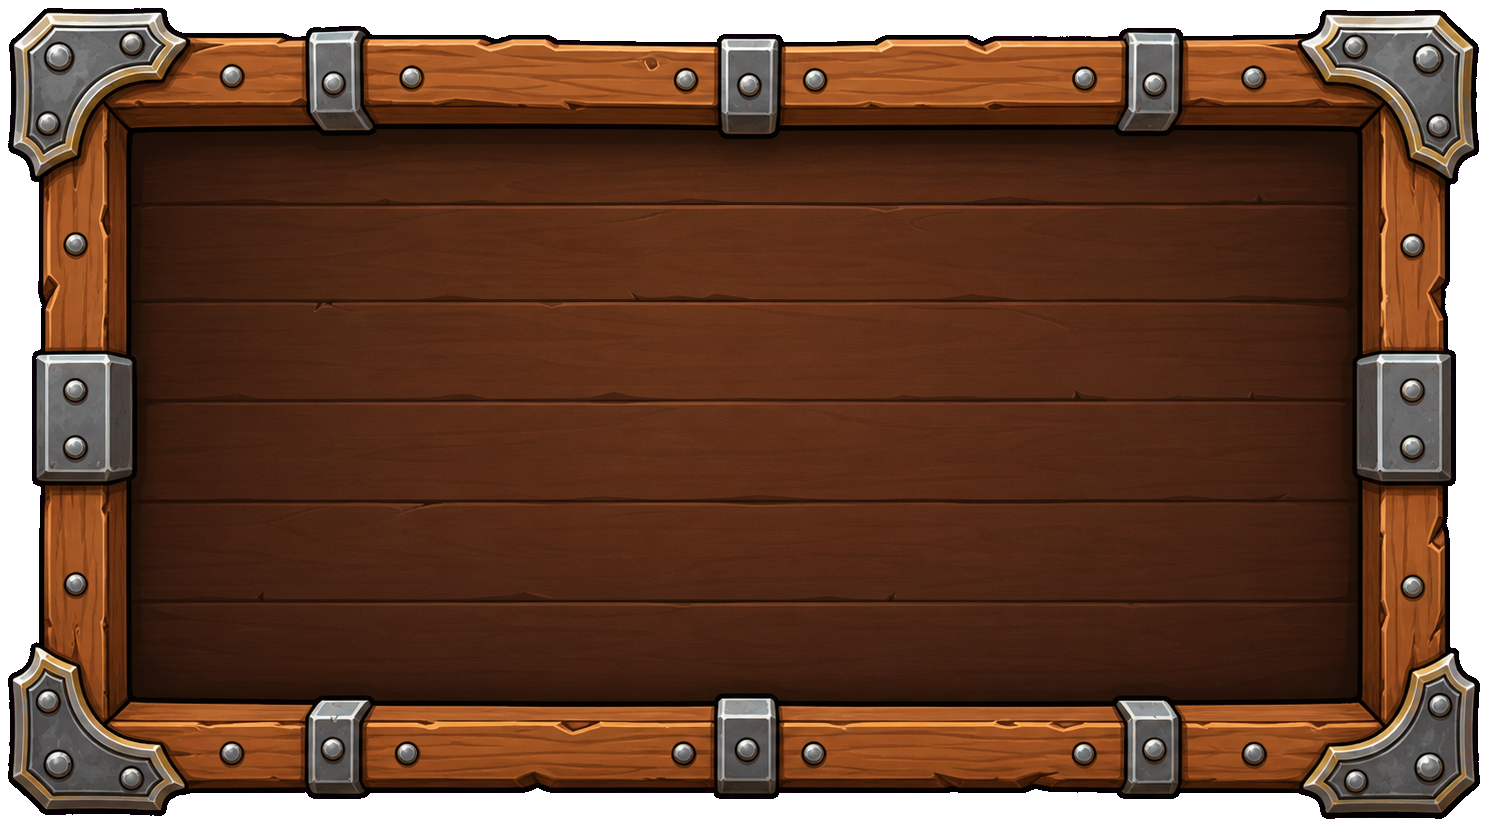
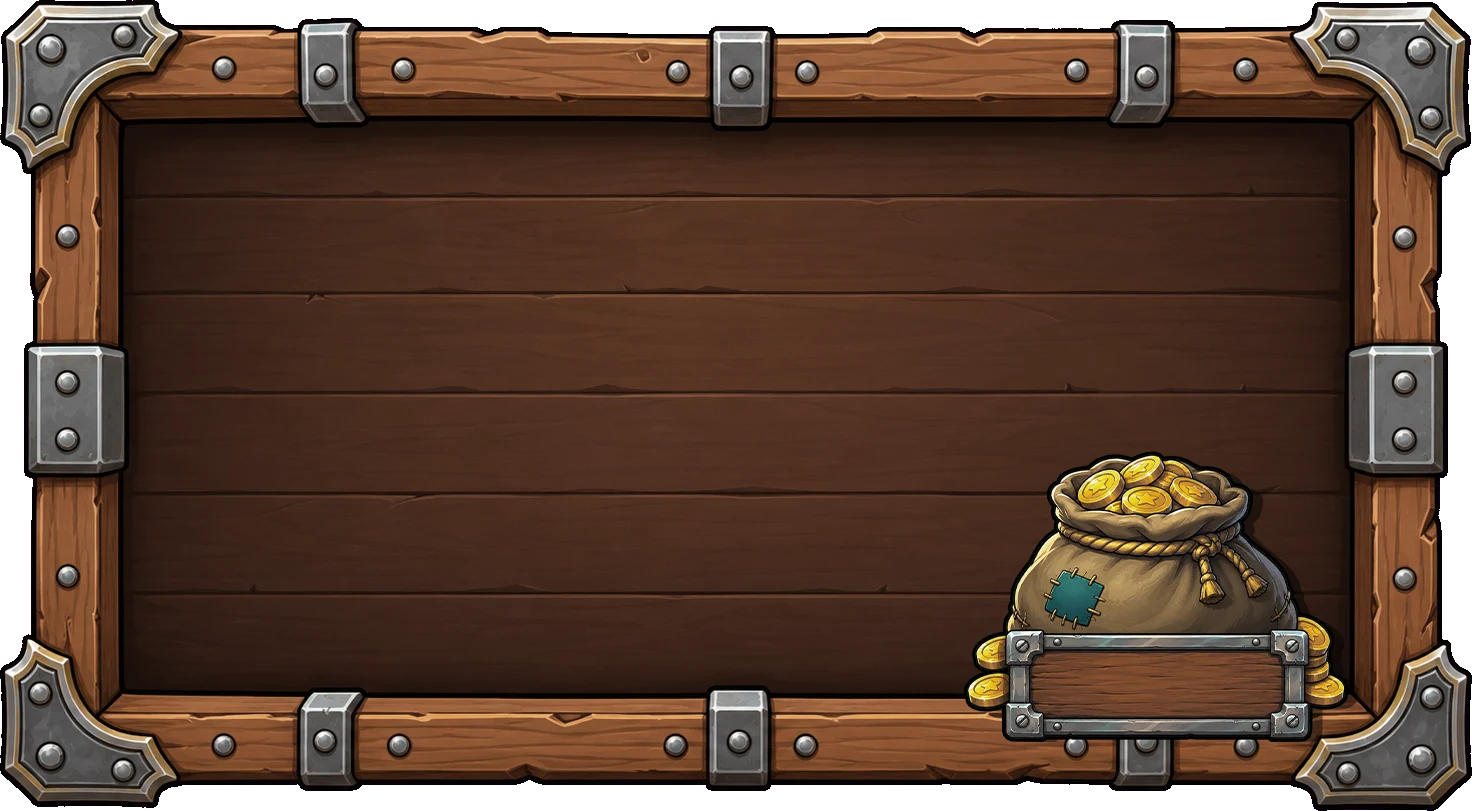
aaa

diff --git a/js/effects.js b/js/effects.js
@@ -901,27 +901,29 @@ safeLobbyEnhancement('ajustes visuais estaticos', () => {
             display: inline-flex !important;
             align-items: center !important;
             justify-content: center !important;
-            gap: 9px !important;
-            min-height: 42px !important;
-            padding: 5px 15px 5px 8px !important;
-            border: 2px solid rgba(255,215,0,0.72) !important;
-            border-radius: 999px !important;
-            background: linear-gradient(90deg, rgba(0,0,0,0.52), rgba(255,215,0,0.18), rgba(0,0,0,0.42)) !important;
-            box-shadow: inset 0 1px 0 rgba(255,255,255,0.16), 0 6px 14px rgba(0,0,0,0.36), 0 0 14px rgba(255,215,0,0.18) !important;
+            gap: 6px !important;
+            min-height: 0 !important;
+            padding: 0 !important;
+            border: 0 !important;
+            border-radius: 0 !important;
+            background: transparent !important;
+            box-shadow: none !important;
             color: #fff8c8 !important;
             font-family: 'Russo One', sans-serif !important;
-            font-size: clamp(18px, 2vw, 26px) !important;
+            font-size: clamp(17px, 1.65vw, 24px) !important;
             line-height: 1 !important;
             white-space: nowrap !important;
             text-shadow: 2px 2px 0 #1b0a03, 0 0 10px rgba(255,215,0,0.58) !important;
             position: absolute !important;
-            right: 34px !important;
-            top: 8px !important;
+            right: 9.4% !important;
+            top: 14.8% !important;
+            transform: translate(50%, -50%) !important;
+            z-index: 3 !important;
         }
 
         .lobby-shop-gold img {
-            width: 34px !important;
-            height: 34px !important;
+            width: clamp(22px, 1.9vw, 30px) !important;
+            height: clamp(22px, 1.9vw, 30px) !important;
             object-fit: contain !important;
             filter: drop-shadow(0 2px 0 rgba(0,0,0,0.58)) drop-shadow(0 0 7px rgba(255,215,0,0.62)) !important;
         }
@@ -929,7 +931,7 @@ safeLobbyEnhancement('ajustes visuais estaticos', () => {
         .lobby-shop-grid {
             display: flex !important;
             align-items: center !important;
-            justify-content: center !important;
+            justify-content: flex-start !important;
             flex-wrap: wrap !important;
             column-gap: clamp(48px, 4.6vw, 72px) !important;
             row-gap: clamp(26px, 2.8vw, 42px) !important;
@@ -1646,15 +1648,14 @@ safeLobbyEnhancement('ajustes visuais estaticos', () => {
             }
 
             .lobby-shop-gold {
-                font-size: 17px !important;
-                padding-right: 12px !important;
-                right: 18px !important;
-                top: 4px !important;
+                font-size: 15px !important;
+                right: 12% !important;
+                top: 13% !important;
             }
 
             .lobby-shop-gold img {
-                width: 28px !important;
-                height: 28px !important;
+                width: 22px !important;
+                height: 22px !important;
             }
 
             .lobby-shop-close {
@@ -2766,25 +2767,25 @@ safeLobbyEnhancement('ajustes visuais estaticos', () => {
         const lobbyShopSlotCount = 5;
         const shopBorderInfo = {
             metallic_border: [
-                'Seus Bloqueios efetivos geram 2 {coin}.',
-                'Realizar uma <strong>Maestria em Bloqueio</strong> gera 1 {coin}.'
+                'Seus Bloqueios efetivos geram 6 {coin}.',
+                'Realizar uma <strong>Maestria em Bloqueio</strong> gera 3 {coin}.'
             ],
             mage_fire_border: [
-                'Seus Ataques efetivos geram 1 {coin}.',
-                'Realizar uma <strong>Maestria em Ataque</strong> gera 1 {coin}.'
+                'Seus Ataques efetivos geram 6 {coin}.',
+                'Realizar uma <strong>Maestria em Ataque</strong> gera 4 {coin}.'
             ],
             elven_forest_border: [
-                'Jogar Restaurar gera 3 {coin}.',
-                'Realizar uma <strong>Maestria em Restaurar</strong> gera 5 {coin}.'
+                'Jogar Restaurar gera 11 {coin}.',
+                'Realizar uma <strong>Maestria em Restaurar</strong> gera 14 {coin}.'
             ],
             rogue_gold_border: [
-                'Jogar Desarmar gera 4 {coin}.',
-                'Realizar uma <strong>Maestria em Desarmar</strong> gera 7 {coin}.'
+                'Jogar Desarmar gera 15 {coin}.',
+                'Realizar uma <strong>Maestria em Desarmar</strong> gera 18 {coin}.'
             ],
             oracle_border: [
-                'Jogar Treinar gera 1 {coin}.',
-                'Subir de nível gera 1 {coin}.',
-                'Realizar uma <strong>Maestria em Treinar</strong> gera 5 {coin}.'
+                'Jogar Treinar gera 4 {coin}.',
+                'Subir de nível gera 4 {coin}.',
+                'Realizar uma <strong>Maestria em Treinar</strong> gera 18 {coin}.'
             ]
         };
         const shopInfoCoin = '<img class="shop-info-coin" src="assets/img/moeda_ouro.png" alt="ouro">';

diff --git a/index.html b/index.html
@@ -9,9 +9,9 @@
     <link href="https://fonts.googleapis.com/css2?family=Russo+One&family=Montserrat:wght@400;600;800;900&display=swap" rel="stylesheet">
     <link href="https://fonts.googleapis.com/css2?family=Bangers&display=swap" rel="stylesheet">
     
-    <link rel="stylesheet" href="css/style.css?v=2026.06.24.28">
+    <link rel="stylesheet" href="css/style.css?v=2026.06.24.29">
     <link rel="stylesheet" href="css/lobby.css?v=2026.06.20.1">
-    <link rel="stylesheet" href="css/game.css?v=2026.06.24.28">
+    <link rel="stylesheet" href="css/game.css?v=2026.06.24.29">
     <link rel="stylesheet" href="css/effects.css?v=2026.06.22.4">
 
     <link rel="icon" type="image/webp" href="assets/img/logo_buppo.webp">
@@ -25,7 +25,7 @@
     <meta name="apple-mobile-web-app-status-bar-style" content="black-translucent">
     <meta name="apple-mobile-web-app-title" content="BUPPO">
     <script>
-        window.BUPPO_BUILD_VERSION = '2026.06.24.28';
+        window.BUPPO_BUILD_VERSION = '2026.06.24.29';
     </script>
     <script>
         (function () {
@@ -273,8 +273,8 @@
     <div id="tooltip-box"><h3 id="tt-title"></h3><div id="tt-content"></div></div>
     <div id="modal-overlay" class="modal-overlay" onclick="cancelModal()"><div class="modal-box" onclick="event.stopPropagation()"><h2 id="modal-title"></h2><p id="modal-desc"></p><div class="modal-btns" id="modal-btns"></div></div></div>
 
-    <script src="js/effects.js?v=2026.06.24.28"></script> 
-    <script type="module" src="js/main.js?v=2026.06.24.28"></script>
+    <script src="js/effects.js?v=2026.06.24.29"></script> 
+    <script type="module" src="js/main.js?v=2026.06.24.29"></script>
 </body>
 </html>
 

diff --git a/js/main.js b/js/main.js
@@ -378,25 +378,25 @@ window.SHOP_ITEMS = SHOP_ITEMS;
 
 const BORDER_REWARD_RULES = {
     metallic_border: {
-        blockEffective: 2,
-        mastery: { BLOQUEIO: 1 }
+        blockEffective: 6,
+        mastery: { BLOQUEIO: 3 }
     },
     mage_fire_border: {
-        attackEffective: 1,
-        mastery: { ATAQUE: 1 }
+        attackEffective: 6,
+        mastery: { ATAQUE: 4 }
     },
     elven_forest_border: {
-        play: { DESCANSAR: 3 },
-        mastery: { DESCANSAR: 5 }
+        play: { DESCANSAR: 11 },
+        mastery: { DESCANSAR: 14 }
     },
     rogue_gold_border: {
-        play: { DESARMAR: 4 },
-        mastery: { DESARMAR: 7 }
+        play: { DESARMAR: 15 },
+        mastery: { DESARMAR: 18 }
     },
     oracle_border: {
-        play: { TREINAR: 1 },
-        levelUp: 1,
-        mastery: { TREINAR: 5 }
+        play: { TREINAR: 4 },
+        levelUp: 4,
+        mastery: { TREINAR: 18 }
     }
 };
 
